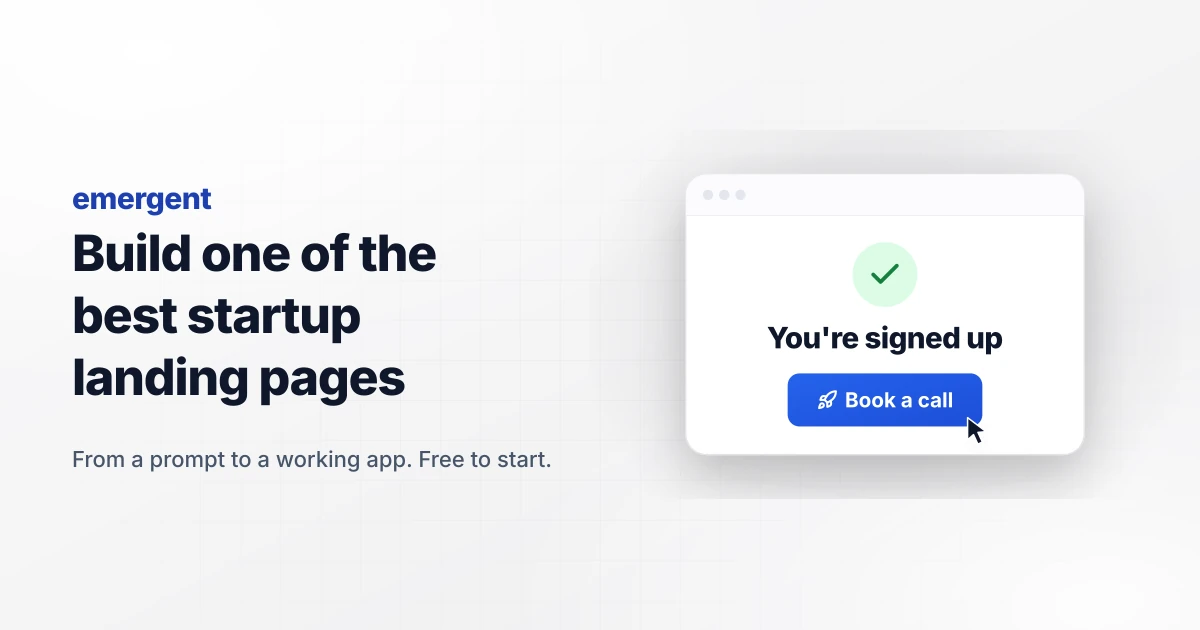
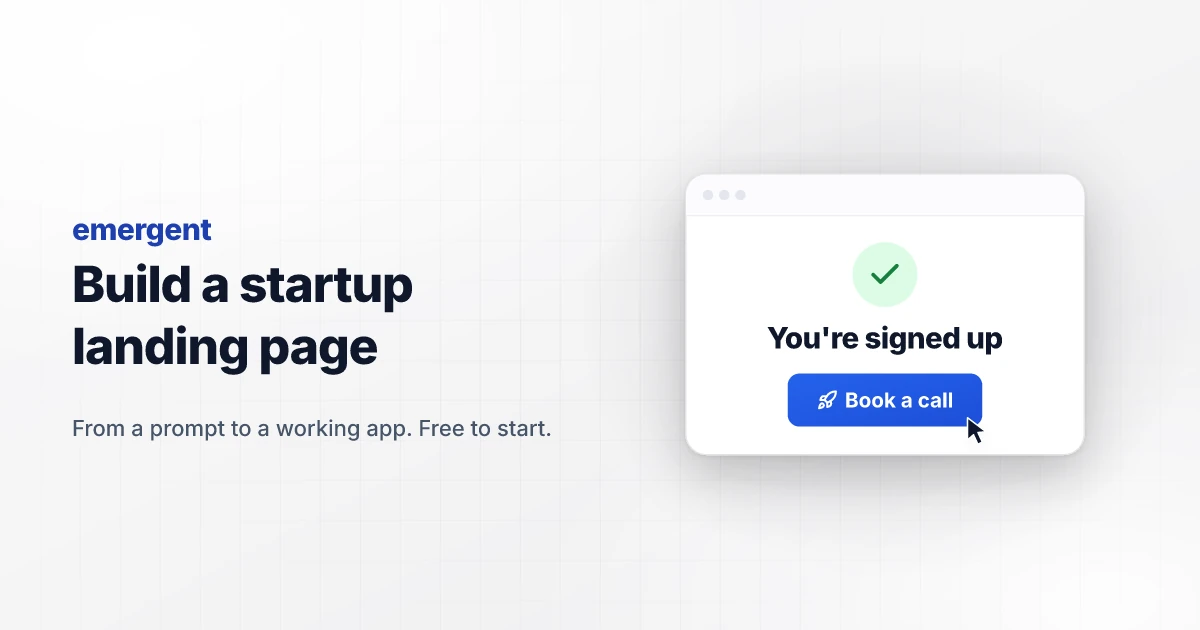
Divit 2026-10-21 ruling 4: head phrase for best/top/examples primaries (skeleton H1 phrase, hero prompt, code-built FAQ; QC K1/L10 and PA3 accept it); golden r4-*; startup-landing-page reworked (H1, hero prompt, FAQ 1-2, share image), QC 0, gate 10/0/0, state images for slim review

Changed region(s): [[0.0617, 0.3016, 0.4625, 0.6937], [0.0617, 0.7238, 0.4625, 0.754]]

diff --git a/ops/skeleton.py b/ops/skeleton.py
@@ -149,6 +149,7 @@ def case_primary(p):
     return re.sub(r"^it\b(?=\s+\w)", "IT", case_acronyms(p))
 def def_questions(prim):
     """The two default definition slots when no candidate fills them (plan_slots), acronyms cased (decision 8, QC R15)."""
+    prim = P.head_phrase(prim)   # ruling 4 (Divit 2026-10-21): "best startup landing pages" -> "What is a startup landing page?"
     pc = case_primary(prim); art = _art(prim); plural = bool(PLURAL.search(P.norm(prim)))
     d = f"What {'are' if plural else 'is'} {art}{pc}?"
     h = f"How do I create {art}{pc}?" if art or plural else f"How do I set up {pc}?"
@@ -156,6 +157,7 @@ def def_questions(prim):
 def hero_prompt_for(prim, hub):
     """The hero default prompt (ruling 15, HUB_RULES 5): 'Build' + the primary with the right article: by sound ("a uniform"), none on a
     mass noun ("Build SEO automation"), "a set of" before a plural ("Build a set of poll questions"), acronyms cased (decision 8)."""
+    prim = P.head_phrase(prim)   # ruling 4 (Divit 2026-10-21): "Build a startup landing page ...", never "a set of best ..."
     tmpl = HERO[hub]; pc = case_primary(prim); plural = bool(PLURAL.search(P.norm(prim)))
     if hub == "Auto":
         if plural: tmpl = "Build {p} that run on their own and log every step."
@@ -169,7 +171,11 @@ def built_fields(url):
     when the field is empty."""
     km = H.kmap()[url]; prim = km["primary"]; hub = H.hub_of(url); disp = _title(km.get("display_name") or prim); d, h = def_questions(prim)
     return {"faq_heading": faq_heading_for(disp, url), "explore_cta": explore_cta_for(disp, url), "hero_prompt": hero_prompt_for(prim, hub),
-            "breadcrumb": disp, "product_name": f"{disp} Builder", "def_q": d, "how_q": h}
+            "breadcrumb": disp, "product_name": f"{disp} Builder", "def_q": d, "how_q": h, "h1_phrase": h1_phrase_for(prim)}
+def h1_phrase_for(prim):
+    """Ruling 4 (Divit 2026-10-21): the keyword phrase the H1 carries, title case: the head phrase of a list-style primary
+    ("Startup Landing Page" for "best startup landing pages"), the primary itself otherwise. QC K1 accepts either in the H1."""
+    return _title(P.head_phrase(prim))
 
 ACRO = P.r18()["acronyms"]   # rules/paa_patterns.json (ruling 18 part 4e: CFOs, KYC ...); None = never cased (it, us)
 def case_acronyms(text):
@@ -381,6 +387,7 @@ def cmd_pack(a):
     out = [f"# Page pack (ruling 15): {url}", "", f"Primary: {km.get('primary')} | intent: {km.get('intent')} | angle note: {(km.get('angle') or '')[:300]}", "",
            "## Sections, in order (write one, run `skeleton.py check URL <section>`, fix to 0, then the next)",
            "1 hero: meta_title, meta_description, h1, hero_description, prompt_chip_1-4 + chip_adds (hero_prompt, product_name, breadcrumb, explore_cta are set by code)",
+           *([f"Ruling 4 (Divit 2026-10-21): the H1 carries the head phrase \"{h1_phrase_for(km['primary'])}\", never the modifiers of \"{km['primary']}\"; the full keyword goes in meta_title, meta_description and hero_description."] if km.get("primary") and P.head_phrase(km["primary"]) != km["primary"] else []),
            "2 features: features_heading, features_subheading, feature_1-6", "3 why: why_title, why_description (the table is built by code)",
            "4 usecases: usecase_heading, tab_label_1-4, tab_content_1-4, mockup, image_brief", "5 howto: howto_title, howto_description, 7 steps",
            "6 faq: one answer per slot with `skeleton.py answer URL N TEXT` (written slots: add --q QUESTION); then `skeleton.py assemble URL`; then `skeleton.py check URL faq`",

diff --git a/qc/qc_hub.py b/qc/qc_hub.py
@@ -77,6 +77,9 @@ def kwmap(low):
     for rx, c in KV_RX: low = rx.sub(lambda m: c + m.group(1), low)
     return low
 def kwn(s): return kwmap(norm(s))
+def _PG_head(p):
+    sys.path.insert(0, os.path.join(ROOT, "qc")); import paa_gate as _PG
+    return _PG.head_phrase(p)
 HOUSE = {g["house"] for g in KV if g.get("house")}
 def kw_bag(s): return {_stem(w) for w in re.findall(r"[a-z0-9]+", kwmap((s or "").lower()))}
 def title_px(s):
@@ -183,7 +186,8 @@ def check(spec, siblings):
         for i, a in enumerate(adds if isinstance(adds, list) else [], 1):
             if not re.fullmatch(r"Add [^.!?]{8,85}\.", a or ""): add("P1", "L10", "chip_adds", f"clause {i} must be one sentence starting with \"Add \" (under 90 chars): {a!r}")
         d = strip_html(F.get("hero_prompt", ""))
-        if prim and kwn(prim) not in kwn(d): add("P1", "L10", "hero_prompt", "default prompt must carry the primary keyword")
+        if prim and kwn(prim) not in kwn(d) and not (_PG_head(prim) != prim and kwn(_PG_head(prim)) in kwn(d)):   # ruling 4: or its head phrase
+            add("P1", "L10", "hero_prompt", "default prompt must carry the primary keyword")
         if len(d) > 150: add("P1", "L10", "hero_prompt", f"default prompt {len(d)} chars (max 150)")
     # L13 (Divit 2026-10-15): rendered lines in the 1440 px prompt box, default <= 2, each chip prompt (default + its add) <= 3;
     # measured in headless Chromium with the live box style cached in rules/prompt_box.json (ops/prompt_lines.py), not by characters
@@ -393,7 +397,8 @@ def check(spec, siblings):
         pr = kwn(prim)
         def has(field_text): return pr in kwn(field_text) or pr.rstrip("s") in kwn(field_text)
         if not has(mt): add("P0", "K1", "meta_title", f'primary "{prim}" not in meta title')
-        if not has(h1): add("P0", "K1", "h1", f'primary "{prim}" not in H1')
+        _hp = _PG_head(prim)   # ruling 4 (Divit 2026-10-21): the H1 of a "best ..." primary carries the head phrase, not the modifiers
+        if not has(h1) and not (_hp != prim and kwn(_hp) in kwn(h1)): add("P0", "K1", "h1", f'primary "{prim}" not in H1' + (f' (or its head phrase "{_hp}")' if _hp != prim else ''))
         if not has(md): add("P1", "K2", "meta_description", f'primary "{prim}" not in meta description')
         if fq and fq.get("items") and not has(fq["items"][0]["q"] + " " + fq["items"][0]["a"]): add("P2", "K2", "faq", "primary not in the first FAQ item")
         if not has(F.get("hero_description", "") + F.get("features_subheading", "")): add("P2", "K2", "hero_description", "primary not in hero or features subheading")
